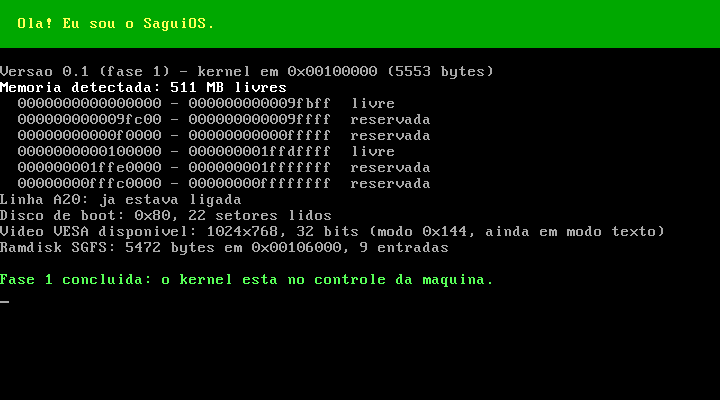
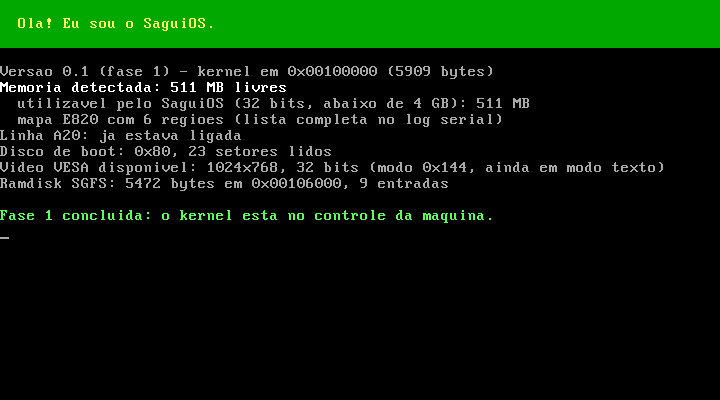
H04-fix: saudação some no G470 por causa do mapa E820 grande
O G470 informa ~20 regiões no E820 e a tela rolava. Mapa completo agora só
na serial; na tela, resumo e a memória utilizável abaixo de 4 GB.

diff --git a/dashboard/status.js b/dashboard/status.js
@@ -1,7 +1,7 @@
 // Gerado por tools/status.py a partir de status.json. Não editar.
 window.SAGUI_STATUS = {
   "titulo": "SaguiOS: um sistema operacional escrito do zero por IA",
-  "atualizado": "2026-11-03T15:22:25",
+  "atualizado": "2026-11-03T15:24:42",
   "situacao": "Fase 1 confirmada no hardware. Seguindo para a fase 2.",
   "fase_atual": 1,
   "historia_atual": null,
@@ -617,6 +617,14 @@ window.SAGUI_STATUS = {
   ],
   "acoes": [
     {
+      "data": "2026-11-03T15:24:42",
+      "texto": "H04-fix concluída: mapa E820 só na serial, saudação fica no topo; memória abaixo de 4 GB mostrada à parte"
+    },
+    {
+      "data": "2026-11-03T15:23:28",
+      "texto": "Início da H04-fix: saudação some no G470 por causa do mapa E820 grande"
+    },
+    {
       "data": "2026-11-03T15:22:25",
       "texto": "Eli confirmou: fase 1 ok"
     },
@@ -664,6 +672,31 @@ window.SAGUI_STATUS = {
   "erros": [],
   "capturas": [
     {
+      "arquivo": "docs/capturas/H04-fix-memoria-6g.png",
+      "nome": "H04-fix-memoria-6g.png",
+      "data": "2026-11-03T15:24:29"
+    },
+    {
+      "arquivo": "docs/capturas/H03-kernel-usb.png",
+      "nome": "H03-kernel-usb.png",
+      "data": "2026-11-03T15:24:18"
+    },
+    {
+      "arquivo": "docs/capturas/H03-kernel-ide.png",
+      "nome": "H03-kernel-ide.png",
+      "data": "2026-11-03T15:24:07"
+    },
+    {
+      "arquivo": "docs/capturas/H03-estagio2-usb.png",
+      "nome": "H03-estagio2-usb.png",
+      "data": "2026-11-03T15:24:01"
+    },
+    {
+      "arquivo": "docs/capturas/H03-estagio2-ide.png",
+      "nome": "H03-estagio2-ide.png",
+      "data": "2026-11-03T15:23:55"
+    },
+    {
       "arquivo": "docs/capturas/G470-fase1-tela-final.png",
       "nome": "G470-fase1-tela-final.png",
       "data": "2026-11-03T15:22:25"
@@ -672,26 +705,6 @@ window.SAGUI_STATUS = {
       "arquivo": "docs/capturas/H04-boot-vdi.png",
       "nome": "H04-boot-vdi.png",
       "data": "2026-11-03T14:26:38"
-    },
-    {
-      "arquivo": "docs/capturas/H03-kernel-usb.png",
-      "nome": "H03-kernel-usb.png",
-      "data": "2026-11-03T14:26:16"
-    },
-    {
-      "arquivo": "docs/capturas/H03-kernel-ide.png",
-      "nome": "H03-kernel-ide.png",
-      "data": "2026-11-03T14:26:05"
-    },
-    {
-      "arquivo": "docs/capturas/H03-estagio2-usb.png",
-      "nome": "H03-estagio2-usb.png",
-      "data": "2026-11-03T14:26:00"
-    },
-    {
-      "arquivo": "docs/capturas/H03-estagio2-ide.png",
-      "nome": "H03-estagio2-ide.png",
-      "data": "2026-11-03T14:25:54"
     },
     {
       "arquivo": "docs/capturas/H02-mbr-usb.png",
@@ -706,12 +719,12 @@ window.SAGUI_STATUS = {
   ],
   "linhas": {
     "boot": 893,
-    "kernel": 714,
+    "kernel": 728,
     "userland": 0,
-    "ferramentas": 939
+    "ferramentas": 951
   },
   "imagem": {
-    "bytes_util": 14336,
+    "bytes_util": 14848,
     "bytes_arquivo": 1048576,
     "meta_bytes": 1474560
   },

diff --git a/kernel/nucleo/principal.c b/kernel/nucleo/principal.c
@@ -33,27 +33,38 @@ static void parar_com_erro(const char *msg)
 }
 
 /* Soma a RAM livre (tipo 1) do mapa E820. Entradas com o atributo estendido
- * presente mas com o bit 0 desligado devem ser ignoradas (ACPI 3.0). */
-static uint64_t memoria_livre_total(void)
+ * presente mas com o bit 0 desligado devem ser ignoradas (ACPI 3.0).
+ * Com abaixo_de_4g, conta só a parte que um kernel de 32 bits sem PAE
+ * consegue endereçar. */
+static uint64_t memoria_livre(bool abaixo_de_4g)
 {
+    const uint64_t limite = 0x100000000ull;
     uint64_t total = 0;
     for (uint32_t i = 0; i < info_boot.mapa_qtd; i++) {
         regiao_e820_t *r = &mapa_memoria[i];
-        if (r->tipo == E820_LIVRE && (r->extra & 1))
-            total += r->tamanho;
+        if (r->tipo != E820_LIVRE || !(r->extra & 1))
+            continue;
+        uint64_t ini = r->base, fim = r->base + r->tamanho;
+        if (abaixo_de_4g) {
+            if (ini >= limite) continue;
+            if (fim > limite) fim = limite;
+        }
+        total += fim - ini;
     }
     return total;
 }
 
-static void mostrar_mapa(void)
+/* O mapa completo vai só para a serial. No G470 ele tem ~20 regiões, e
+ * mostrá-lo na tela de 25 linhas empurrava a saudação para fora (erro 1). */
+static void registrar_mapa(void)
 {
     klog("Mapa de memoria (E820), %u regioes:\n", info_boot.mapa_qtd);
     for (uint32_t i = 0; i < info_boot.mapa_qtd; i++) {
         regiao_e820_t *r = &mapa_memoria[i];
         uint64_t fim = r->base + r->tamanho - 1;
-        kprintf("  %08x%08x - %08x%08x  %s\n",
-                (uint32_t)(r->base >> 32), (uint32_t)r->base,
-                (uint32_t)(fim >> 32), (uint32_t)fim, nome_tipo_e820(r->tipo));
+        klog("  %08x%08x - %08x%08x  %s\n",
+             (uint32_t)(r->base >> 32), (uint32_t)r->base,
+             (uint32_t)(fim >> 32), (uint32_t)fim, nome_tipo_e820(r->tipo));
     }
 }
 
@@ -93,11 +104,14 @@ void inicio_kernel(uint32_t magico, info_boot_t *bi)
     kprintf("\nVersao %s - kernel em %p (%u bytes)\n", SAGUI_VERSAO,
             (void *)info_boot.kernel_inicio, info_boot.kernel_bytes);
 
-    uint64_t livre = memoria_livre_total();
+    uint64_t livre = memoria_livre(false);
+    uint64_t usavel = memoria_livre(true);
     vga_cor(COR_BRANCO, COR_PRETO);
     kprintf("Memoria detectada: %u MB livres\n", (uint32_t)(livre >> 20));
     vga_cor(COR_CINZA, COR_PRETO);
-    mostrar_mapa();
+    kprintf("  utilizavel pelo SaguiOS (32 bits, abaixo de 4 GB): %u MB\n", (uint32_t)(usavel >> 20));
+    kprintf("  mapa E820 com %u regioes (lista completa no log serial)\n", info_boot.mapa_qtd);
+    registrar_mapa();
 
     static const char *metodos_a20[] = { "ja estava ligada", "BIOS", "porta 0x92", "controlador de teclado" };
     kprintf("Linha A20: %s\n", info_boot.a20_metodo < 4 ? metodos_a20[info_boot.a20_metodo] : "?");
@@ -112,7 +126,7 @@ void inicio_kernel(uint32_t magico, info_boot_t *bi)
     vga_cor(COR_VERDE_CLARO, COR_PRETO);
     kprintf("\nFase 1 concluida: o kernel esta no controle da maquina.\n");
     vga_cor(COR_CINZA, COR_PRETO);
-    klog("[SAGUI] memoria_mb=%u\n", (uint32_t)(livre >> 20));
+    klog("[SAGUI] memoria_mb=%u usavel_mb=%u\n", (uint32_t)(livre >> 20), (uint32_t)(usavel >> 20));
     klog("[SAGUI] boot ok\n");
 
     for (;;)

diff --git a/tests/h03_modo_protegido.py b/tests/h03_modo_protegido.py
@@ -49,7 +49,7 @@ def main():
                 m.esperar_serial("[SAGUI] boot ok", 120)
                 tela = m.tela_texto()
                 texto = "\n".join(tela)
-                verificar("Ola! Eu sou o SaguiOS." in texto, f"[{modo} {mem_mb}M] saudação na tela VGA")
+                verificar("Ola! Eu sou o SaguiOS." in tela[1], f"[{modo} {mem_mb}M] saudação na tela VGA, no topo (erro 1)")
                 achou = re.search(r"Memoria detectada: (\d+) MB", texto)
                 verificar(achou is not None, f"[{modo} {mem_mb}M] memória detectada na tela")
                 mb = int(achou.group(1))
@@ -59,6 +59,18 @@ def main():
                 verificar("Fase 1 concluida" in texto, f"[{modo} {mem_mb}M] kernel chegou ao fim da inicialização")
                 if mem_mb == 512:
                     m.captura(f"H03-kernel-{modo}")
+    # H04-fix: com memória acima de 4 GB, a tela separa o total do que um
+    # kernel de 32 bits consegue usar, e a saudação continua no topo.
+    with Maquina("h03-6g", "ide", memoria="6G") as m:
+        m.esperar_serial("[SAGUI] boot ok", 120)
+        tela = m.tela_texto()
+        texto = "\n".join(tela)
+        verificar("Ola! Eu sou o SaguiOS." in tela[1], "[6G] saudação continua no topo")
+        total = int(re.search(r"Memoria detectada: (\d+) MB", texto).group(1))
+        usavel = int(re.search(r"abaixo de 4 GB\): (\d+) MB", texto).group(1))
+        verificar(total > 6000 and 2900 < usavel < 4096, f"[6G] total {total} MB, utilizável abaixo de 4 GB {usavel} MB")
+        verificar("  livre" in m.serial(), "[6G] mapa E820 completo está no log serial")
+        m.captura("H04-fix-memoria-6g", guardar=True)
     return 0
 
 

diff --git a/status.md b/status.md
@@ -1,14 +1,14 @@
 # Status do SaguiOS
 
-_Atualizado em 2026-11-03T15:22:25_
+_Atualizado em 2026-11-03T15:24:42_
 
 - **Situação:** Fase 1 confirmada no hardware. Seguindo para a fase 2.
 - **Fase atual:** 1
 - **História atual:** -
 - **Progresso geral:** 11.8%
 - **Bloqueio:** nenhum
-- **Imagem:** 14336 bytes úteis (meta 1474560 bytes = 1,44 MB)
-- **Linhas de código:** boot 893, kernel 714, userland 0
+- **Imagem:** 14848 bytes úteis (meta 1474560 bytes = 1,44 MB)
+- **Linhas de código:** boot 893, kernel 728, userland 0
 
 ## Fases
 
@@ -66,6 +66,8 @@ _Atualizado em 2026-11-03T15:22:25_
 
 ## Últimas ações
 
+- 2026-11-03T15:24:42: H04-fix concluída: mapa E820 só na serial, saudação fica no topo; memória abaixo de 4 GB mostrada à parte
+- 2026-11-03T15:23:28: Início da H04-fix: saudação some no G470 por causa do mapa E820 grande
 - 2026-11-03T15:22:25: Eli confirmou: fase 1 ok
 - 2026-11-03T14:27:18: Fase 1 entregue. Aguardando teste do Eli.
 - 2026-11-03T14:27:10: Todos os testes da fase 1 passaram (H01 a H04, IDE e USB)
